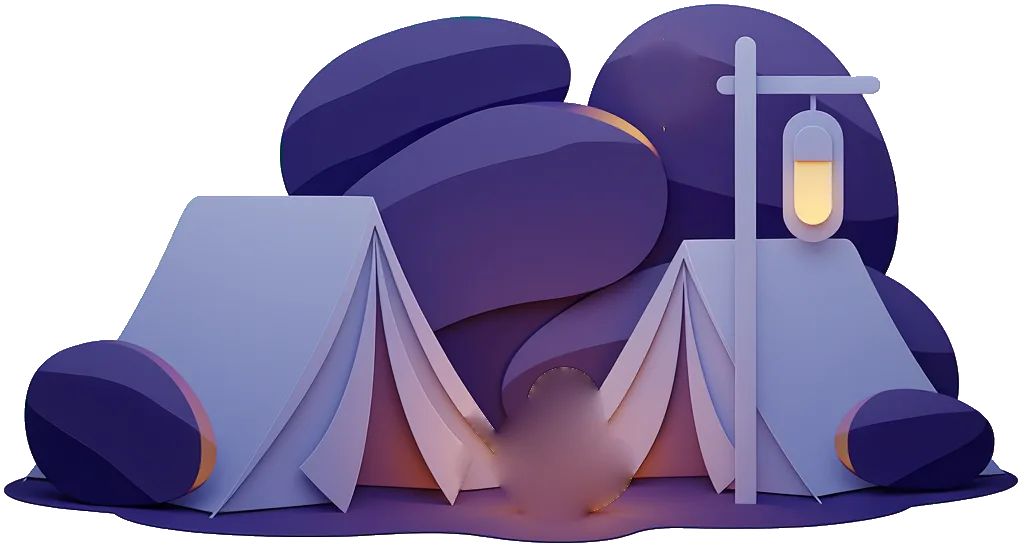
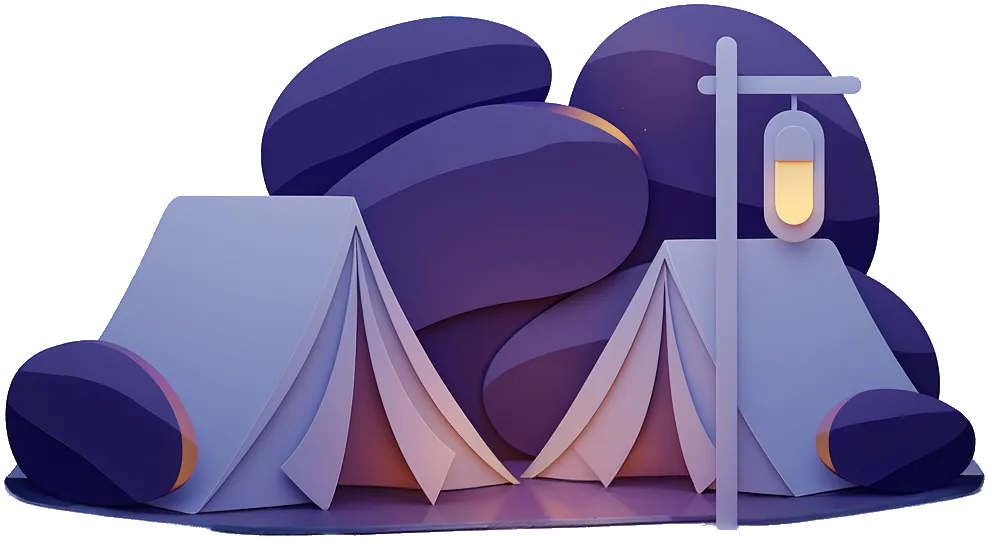
Journey: the retouched camps, each with its own small campfire like the kings' one

diff --git a/src/journey/journey.js b/src/journey/journey.js
@@ -1087,6 +1087,8 @@
 					ctx.globalCompositeOperation = 'source-over';
 				} else
 				ctx.drawImage(dark ? (im.dark || (im.dark = tinted(im, 0.45))) : im, x - w / 2, top, w, h);
+				var cf = CAMP_FIRES[p.art];   // the camps' own fires, drawn like the kings' one (the pictures were retouched without theirs)
+				if (cf && im === art(p.art)) paintFire(x - w / 2 + cf[0] * w / im.width, 1, 1, {y: top + cf[1] * h / im.height, s: h * cf[2] / 100, id: p.art});
 				if (p.key === 'owl' && art(p.art)) {   // its eyes catch the light, so it can be seen up in the palm; now and then it blinks
 					var shut = Math.sin(clock * 0.8 + p.night) > 0.95;
 					[0.609, 0.651].forEach(function(fx) {
@@ -1384,13 +1386,18 @@
 	// hot white-yellow at the root to red at the tip, and added together so they glow where they overlap), a pool of
 	// firelight on the sand, sparks drifting up and a thin smoke. grow (0..1) is how far it has caught: it's lit once the
 	// kings have walked over, starting small and building to a steady fire.
-	var embers = [], smoke = [], fireClock = 0, fireNow = 0;
-	function paintFire(x, a, grow) {
+	// opt: {y: where its base is, s: its size (1 = the kings' fire), id: which fire, so each keeps its own sparks}
+	var fires = {}, fireNow = 0;
+	var CAMP_FIRES = {'jr-lm-camp': [400, 282, 0.34], 'jr-lm-camp-2': [545, 515, 0.22], 'jr-lm-camp-3': [530, 505, 0.24]};   // where each camp's fire is, in its picture's pixels, and its size per 100 of the camp's height
+	function paintFire(x, a, grow, opt) {
 		if (a <= 0) return;
+		opt = opt || {};
 		grow = grow == null ? 1 : grow;
-		var y = kingY(x), dt = clamp(clock - fireClock, 0, 0.1); fireClock = clock;
+		var f = fires[opt.id || 'camp'] || (fires[opt.id || 'camp'] = {embers: [], smoke: [], clock: clock});
+		var y = opt.y != null ? opt.y : kingY(x), dt = clamp(clock - f.clock, 0, 0.1); f.clock = clock;
 		var size = 0.25 + 0.75 * grow;
 		ctx.save(); ctx.globalAlpha = a;
+		if (opt.s) { ctx.translate(x, y); ctx.scale(opt.s, opt.s); ctx.translate(-x, -y); }
 		// firelight on the sand and on whoever stands near
 		ctx.globalCompositeOperation = 'lighter';
 		ctx.save(); ctx.translate(x, y); ctx.scale(1, 0.32);
@@ -1431,8 +1438,9 @@
 		ctx.globalCompositeOperation = 'lighter';
 		glow(x, y - 12 * size, 16 * size, 'rgb(255,230,150)', 0.45 * grow * flicker(2));   // the hot heart, low in the fire
 		// sparks rising from it
+		var embers = f.embers, smoke = f.smoke;
 		if (!reduceMotion && Math.random() < dt * 14 * grow) embers.push({x: x + (Math.random() - 0.5) * 20, y: y - 20, vx: (Math.random() - 0.5) * 18 + night.wind * 20, vy: -50 - Math.random() * 60, life: 1.2 + Math.random() * 1.4, t: 0});
-		embers = embers.filter(function(e) {
+		embers = f.embers = embers.filter(function(e) {
 			e.t += dt; e.x += (e.vx + Math.sin(clock * 3 + e.life * 9) * 12) * dt; e.y += e.vy * dt; e.vy *= 0.995;
 			var f = 1 - e.t / e.life; if (f <= 0) return false;
 			ctx.fillStyle = 'rgba(255,' + Math.round(150 + 80 * f) + ',60,' + f.toFixed(2) + ')'; ctx.fillRect(e.x, e.y, 1.6, 1.6);
@@ -1441,7 +1449,7 @@
 		ctx.globalCompositeOperation = 'source-over';
 		// and a thin smoke drifting away above it
 		if (!reduceMotion && Math.random() < dt * 3 * grow) smoke.push({x: x + (Math.random() - 0.5) * 8, y: y - 50 * size, r: 6, t: 0, life: 4 + Math.random() * 2});
-		smoke = smoke.filter(function(p) {
+		smoke = f.smoke = smoke.filter(function(p) {
 			p.t += dt; p.y -= 16 * dt; p.x += (6 + night.wind * 30) * dt; p.r += 5 * dt;
 			var f = 1 - p.t / p.life; if (f <= 0) return false;
 			glow(p.x, p.y, p.r, 'rgb(150,140,160)', 0.12 * f * Math.min(1, p.t * 2));

diff --git a/src/journey/index.html b/src/journey/index.html
@@ -309,14 +309,14 @@ header, .player, .rotate {transition:transform 0.5s ease, opacity 0.5s ease;}
 	</footer>
 
 	<script src="/assets/js/site.js" defer></script>
-	<script src="/journey/camels.js?v=202610241946" defer></script>
-	<script src="/journey/camel-rig.js?v=202610241946" defer></script>
-	<script src="/journey/art-ready.js?v=202610241946" defer></script>
-	<script src="/journey/readings.js?v=202610241946" defer></script>
-	<script src="/journey/pip.js?v=202610241946" defer></script>
-	<script src="/journey/plan.js?v=202610241946" defer></script>
-	<script src="/journey/audio-ready.js?v=202610241946" defer></script>
-	<script src="/journey/sound.js?v=202610241946" defer></script>
-	<script src="/journey/journey.js?v=202610241946" defer></script>
+	<script src="/journey/camels.js?v=202610242040" defer></script>
+	<script src="/journey/camel-rig.js?v=202610242040" defer></script>
+	<script src="/journey/art-ready.js?v=202610242040" defer></script>
+	<script src="/journey/readings.js?v=202610242040" defer></script>
+	<script src="/journey/pip.js?v=202610242040" defer></script>
+	<script src="/journey/plan.js?v=202610242040" defer></script>
+	<script src="/journey/audio-ready.js?v=202610242040" defer></script>
+	<script src="/journey/sound.js?v=202610242040" defer></script>
+	<script src="/journey/journey.js?v=202610242040" defer></script>
 </body>
 </html>
